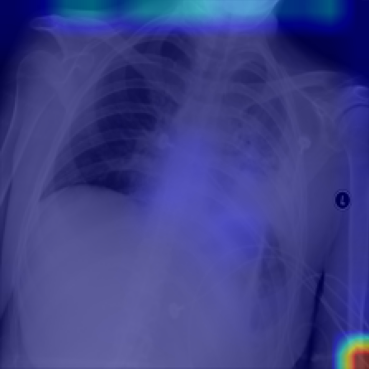
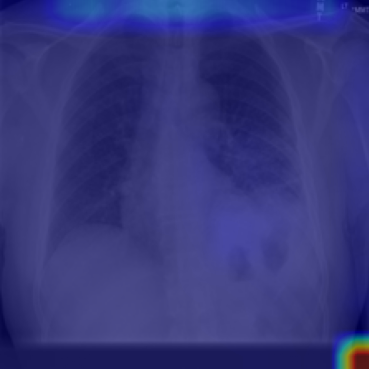
update core.py code

diff --git a/BiomedGPTvisulize/BiomedGPT/core2.py b/BiomedGPTvisulize/BiomedGPT/core2.py
@@ -1,7 +1,10 @@
-import os, sys
-from functools import lru_cache
+import os
 import torch
 import numpy as np
+from PIL import Image
+import matplotlib.pyplot as plt
+from torchvision import transforms
+
 np.bool = bool
 np.int = int
 np.float = float
@@ -9,19 +12,12 @@ np.complex = complex
 np.object = object
 np.str = str
 
-from PIL import Image
-import matplotlib.pyplot as plt
-from torchvision import transforms
-
-sys.path.append("/home/howardliu/work_space/BiomedGPT/BiomedGPT")
-
 from fairseq import tasks, utils
 from fairseq.dataclass.utils import convert_namespace_to_omegaconf
 from utils import checkpoint_utils
 from utils.eval_utils import eval_step
 # from utils.zero_shot_utils import encode_text
 from omegaconf import OmegaConf
-
 
 def encode_text(task, text):
     bpe = task.bpe.encode(text)
@@ -38,8 +34,7 @@ def load_image(image_path, image_size=224):
     ])
     return image_np, transform(image).unsqueeze(0)  # image_np for plotting
 
-@lru_cache
[2 lines of base64/hex data omitted]
     overrides = {"bpe_dir": bpe_dir}
     use_cuda = torch.cuda.is_available()
     use_fp16 = False
@@ -47,6 +42,10 @@ def predict_caption(image_path, prompt, model_path = "/home/howardliu/work_data/
     # Load model & task
     models, cfg, task = checkpoint_utils.load_model_ensemble_and_task([model_path], arg_overrides=overrides)
     model = models[0]
+    for i, layer in enumerate(model.decoder.layers):
+        has_attn = hasattr(layer, "encoder_attn") and isinstance(layer.encoder_attn, torch.nn.Module)
+
+
     model.eval()
     if use_fp16:
         model.half()
@@ -54,18 +53,25 @@ def predict_caption(image_path, prompt, model_path = "/home/howardliu/work_data/
         model.cuda()
     model.prepare_for_inference_(cfg)
 
-    # Register attention hook
+    # Register attention hooks for encoder & decoder
     GLOBAL_ATTN = {}
 
-    def hook_fn(module, inp, out):
-        if isinstance(out, tuple) and len(out) > 1 and out[1] is not None:
-            GLOBAL_ATTN['attn'] = out[1].detach().cpu()
+    def make_hook(layer_type, layer_idx):
+        def hook_fn(module, inp, out):
+            if out[1] is not None:
+                GLOBAL_ATTN[f'{layer_type}_layer_{layer_idx}'] = out[1].detach().cpu()
+        return hook_fn
 
-    model.encoder.layers[layer].self_attn.register_forward_hook(hook_fn)
+    for i, layer in enumerate(model.encoder.layers):
+        layer.self_attn.register_forward_hook(make_hook('encoder', i))
+
+    for i, layer in enumerate(model.decoder.layers):
+        layer.encoder_attn.register_forward_hook(make_hook('decoder', i))
 
     # Prepare input
     image_np, image_tensor = load_image(image_path)
     image_tensor = image_tensor.half().cuda() if use_fp16 else image_tensor.cuda()
+    prompt = " what does the image describe?"
     src_tokens = encode_text(task, prompt)
     src_tokens = src_tokens.unsqueeze(0).cuda()
     src_lengths = torch.tensor([len(src_tokens[0])]).cuda()
@@ -85,26 +91,34 @@ def predict_caption(image_path, prompt, model_path = "/home/howardliu/work_data/
     with torch.no_grad():
         result, _ = eval_step(task, generator, [model], sample)
     caption = result[0]["caption"]
-    print("✅ Caption:", caption)
+    print("Caption:", caption)
 
-    # Attention overlay
-    attn_tensor = GLOBAL_ATTN['attn'][head, 0]  # [num_queries, num_keys]
-    attn_map = attn_tensor[0, 1:197]  # image patch tokens only
-    attn_map = attn_map.reshape(14, 14)
-    attn_map = torch.nn.functional.interpolate(
-        attn_map.unsqueeze(0).unsqueeze(0), size=(224, 224), mode='bilinear', align_corners=False
-    ).squeeze().numpy()
-
-    # Plot
-    fig, ax = plt.subplots()
-    ax.imshow(image_np, cmap='gray')
-    ax.imshow(attn_map, cmap='jet', alpha=0.5)
-    ax.axis('off')
+    # Visualize
     os.makedirs("attention_vis", exist_ok=True)
-    out_path = f"attention_vis/{os.path.basename(image_path).split('.')[0]}_L{layer}_H{head}.png"
-    plt.savefig(out_path, bbox_inches='tight', pad_inches=0)
-    plt.close()
-    print(f"✅ Attention overlay saved to {out_path}")
+    basename = os.path.basename(image_path).split('.')[0]
+
+    key = "encoder_layer_1"
+    if key in GLOBAL_ATTN:
+        attn_tensor = GLOBAL_ATTN[key]
+        try:
+            avg_attn = attn_tensor[0].mean(dim=0).mean(dim=0)[1:197]  # 14x14 patch tokens
+            attn_map = avg_attn.reshape(14, 14)
+            attn_map = torch.nn.functional.interpolate(
+                attn_map.unsqueeze(0).unsqueeze(0), size=(224, 224), mode='bilinear', align_corners=False
+            ).squeeze().numpy()
+
+            fig, ax = plt.subplots()
+            ax.imshow(image_np, cmap='gray')
+            ax.imshow(attn_map, cmap='jet', alpha=0.5)
+            ax.axis('off')
+            out_path = f"attention_vis/{basename}_{key}.png"
+            plt.savefig(out_path, bbox_inches='tight', pad_inches=0)
+            plt.close()
+            print(f"Saved: {out_path}")
+        except Exception as e:
+            print(f"Failed to visualize {key}: {e}")
+    else:
+        print(f"Attention key '{key}' not found in GLOBAL_ATTN")
 
     return caption, out_path
 
@@ -117,5 +131,4 @@ if __name__ == "__main__":
     parser.add_argument("--bpe-dir", type=str, required=True, help="Path to BPE directory")
     args = parser.parse_args()
 
-    _prompt = "what does the image describe?"
-    predict_caption(args.image_path, args.model_path, args.bpe_dir, _prompt)
+    predict_caption(args.image_path, args.model_path, args.bpe_dir)                 

diff --git a/app.py b/app.py
@@ -8,7 +8,7 @@ import io
 import zipfile
 
 sys.path.append("/home/howardliu/work_space/BiomedGPT/BiomedGPTvisulize/BiomedGPT")
-from BiomedGPTvisulize.BiomedGPT.core import predict_caption
+from BiomedGPTvisulize.BiomedGPT.core2 import predict_caption
 
 global_results: list[dict] = []
 
@@ -266,6 +266,21 @@ app_ui = ui.page_fluid(
     ui.div("AI-assisted Radiological Imaging Diagnostic Platform @ NTU", {"class": "bottom-bar"})
 )
 
+def resize_base64_image(base64_str: str, size=(224, 224)) -> str:
+    # Step 1: Decode base64 to PIL image
+    image_data = base64.b64decode(base64_str)
+    image = Image.open(BytesIO(image_data)).convert("RGB")  # 保證為RGB格式
+
+    # Step 2: Resize to 224x224
+    resized_image = image.resize(size, Image.BICUBIC)
+
+    # Step 3: Encode back to base64
+    buffer = BytesIO()
+    resized_image.save(buffer, format="PNG")  # 可改成 JPEG 依需求
+    resized_base64 = base64.b64encode(buffer.getvalue()).decode("utf-8")
+
+    return resized_base64
+
 def save_report(report_text: str, filename: str):
     """Save the report text to a file."""
     try:
@@ -340,7 +355,7 @@ def server(input, output, session):
         report_text, heatmap_img = predict_caption(datapath, prompt_)
 
         heatmap_b64 = image_to_base64(heatmap_img) 
-        orig_b64 = image_to_base64(datapath)
+        orig_b64 = resize_base64_image(image_to_base64(datapath), size=(224, 224))
 
         result = {
         "caption": report_text,
@@ -397,7 +412,7 @@ def server(input, output, session):
             report_text, heatmap_img = predict_caption(datapath, prompt)  # 你有 cache 就不怕慢
 
             heatmap_b64 = image_to_base64(heatmap_img)
-            orig_b64 = image_to_base64(datapath)
+            orig_b64 = resize_base64_image(image_to_base64(datapath), size=(224, 224))
 
             result = {
                 "caption": report_text,
